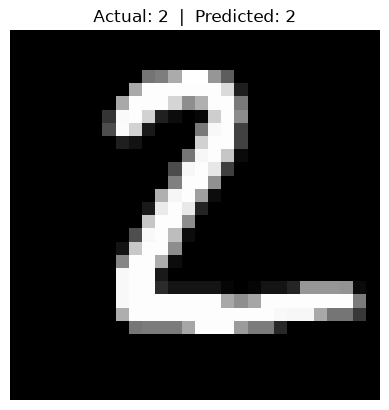
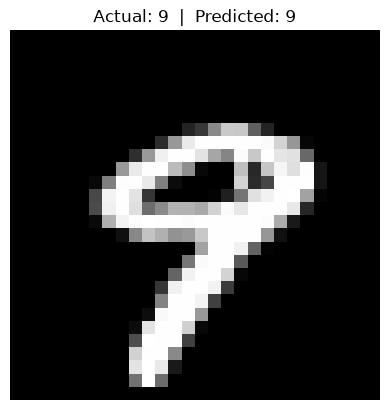
Changed image in prediction

Changed region(s): [[0.2159, 0.1463, 0.9563, 0.9659], [0.7404, 0.0293, 0.7712, 0.0585], [0.401, 0.0293, 0.4319, 0.0585]]

diff --git a/module3/predictionn.py b/module3/predictionn.py
@@ -11,7 +11,7 @@ model = keras.models.load_model("mnist_best_model.keras", compile=False)
 (_, _), (x_test, y_test) = keras.datasets.mnist.load_data()
 
 # Pick an image
-index = 1
+index = 9
 image = x_test[index]
 
 # Preprocess and predict
